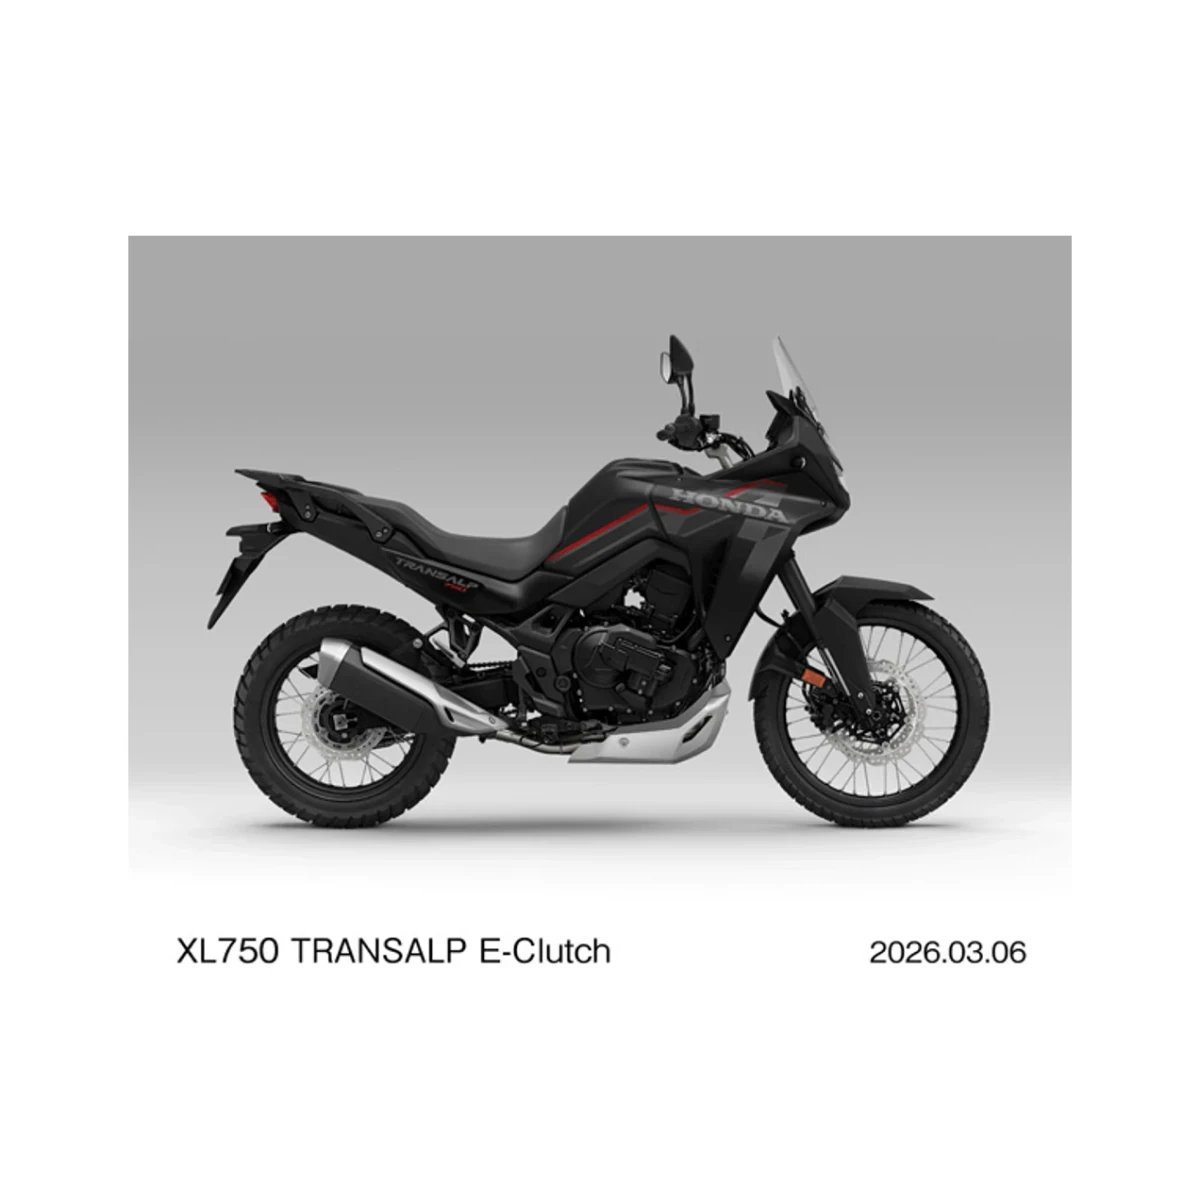
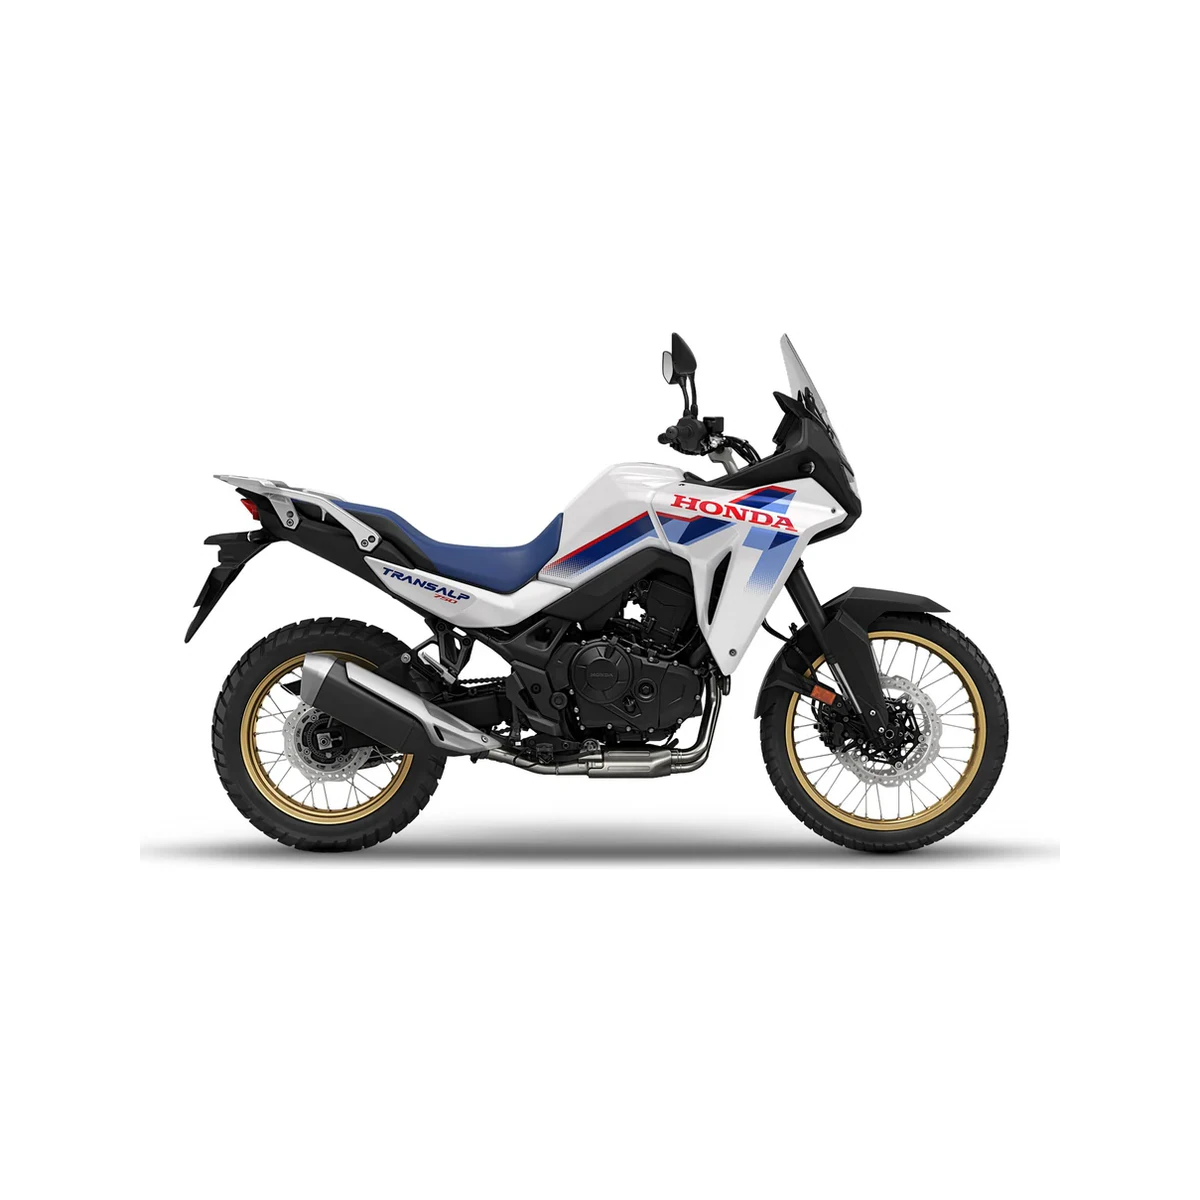
Replace flagged motorcycle images with white catalog assets (#260)
* Use clean white-background sources for flagged motorcycles

* Add one-time white media refresh script

* Run one-time white media refresh

* Use reachable CB650R studio source

* Fix CB650R refresh source URL

* Restore official Honda provenance for CB650R

* Harden white media refresh with local CB cleanup and source fallbacks

* Keep Africa Twin provenance tied to local Honda asset

* Clean Africa Twin local asset onto white canvas

* Refresh flagged motorcycle white-background assets [skip media-refresh]

* Use clean studio sources for CB650R and Africa Twin

* Refresh CB650R and Africa Twin from white studio sources

* Refresh flagged motorcycle white-background assets [skip media-refresh]

* Guard against flagged gray and lifestyle media regressions

* Remove one-time white media refresh workflow

* Remove one-time white media refresh helper

---------

diff --git a/lib/media.ts b/lib/media.ts
@@ -37,8 +37,8 @@ export const entityMedia: EntityMedia[] = [
   },
   {
     id: "honda-cb650r-honda-global", entityType: "motorcycle", entityId: "honda-cb650r", role: "primary",
-    src: "/media/motorcycles/honda-cb650r.webp", sourceImageUrl: "https://powersports.honda.com/motorcycle/standard/cb650r/2026/-/media/products/family/cb650r/trims/trim-main/cb650r-e-clutch/2026/2026-cb650r-e-clutch-matte_black_metallic-1505x923.png?imwidth=1600", alt: "Honda CB650R motorcycle in Matte Ballistic Black Metallic", width: 1200, height: 1200,
-    rightsStatus: "external-reference", rightsHolder: "American Honda Motor Co., Inc.", sourceLabel: "Official Honda Powersports product image · 2026 CB650R E-Clutch", sourceUrl: "https://powersports.honda.com/motorcycle/standard/cb650r/2026/cb650r-e-clutch", lastChecked: "2026-09-26"
+    src: "/media/motorcycles/honda-cb650r.webp", sourceImageUrl: "https://cdn.powergo.ca/media/catalog/2026/10/63fb5363ca884f88b02c012912cfaf3e_81c2a9c412fc4ca7892c0d472e3847cc_1000/2026-honda-cb650r-e-clutch-matte-black-metallic-2.webp", alt: "Honda CB650R motorcycle in Matte Ballistic Black Metallic", width: 1200, height: 1200,
+    rightsStatus: "external-reference", rightsHolder: "MotoMember / PowerGo", sourceLabel: "Dealer-hosted exact-model studio image · 2026 Honda CB650R E-Clutch", sourceUrl: "https://www.motomember.com/en/new/motorcycle/honda/cb650r-e-clutch/", lastChecked: "2026-09-27"
   },
   {
     id: "honda-nx500-e-clutch-bsh-2026", entityType: "motorcycle", entityId: "honda-nx500-e-clutch", role: "primary",
@@ -745,8 +745,8 @@ export const entityMedia: EntityMedia[] = [
   },
   {
     id:"motorstar-cafe-400-editorial", entityType:"motorcycle", entityId:"motorstar-cafe-400", role:"primary",
-    src:"/media/motorcycles/motorstar-cafe-400.webp", sourceImageUrl: "https://imgcdn.zigwheels.ph/large/gallery/exterior/78/1899/motorstar-cafe-400-right-side-viewfull-image-779807.jpg", alt:"MotorStar Cafe 400 motorcycle product image", width:1200, height:1200,
-    rightsStatus:"external-reference", rightsHolder: "Zigwheels Philippines", sourceLabel: "Catalog product image · MotorStar Cafe 400", sourceUrl: "https://www.zigwheels.ph/new-motorcycles/motorstar/cafe-400", lastChecked: "2026-09-24"
+    src:"/media/motorcycles/motorstar-cafe-400.webp", sourceImageUrl: "https://www.kamote.ph/cdn-cgi/image/lossless%3Dtrue%2Cw%3D1200%2Ch%3D1200%2Cf%3Dwebp%2Cfit%3Dcontain/https%3A/www.kamote.ph/Gallery/Motorstar/Cafe_400.webp", alt:"MotorStar Cafe 400 motorcycle product image", width:1200, height:1200,
+    rightsStatus:"external-reference", rightsHolder: "Kamote.ph", sourceLabel: "Philippine exact-model product image reference · MotorStar Cafe 400", sourceUrl: "https://www.kamote.ph/motorcycle/motorstar-cafe-400", lastChecked: "2026-09-27"
   },
   {
     id:"motorstar-xplorer-250r-editorial", entityType:"motorcycle", entityId:"motorstar-xplorer-250r", role:"primary",
@@ -960,13 +960,13 @@ export const entityMedia: EntityMedia[] = [
   },
   {
     id: "honda-crf1100l-africa-twin-honda-global", entityType: "motorcycle", entityId: "honda-crf1100l-africa-twin", role: "primary",
-    src: "/media/motorcycles/honda-crf1100l-africa-twin.webp", sourceImageUrl: "https://powersports.honda.com/motorcycle/adventure/-/media/products/family/africa-twin/trims/trim-main/africa-twin/2026/2026-africa-twin-matte_black_metallic-1505x923.png?imwidth=1600", alt: "Honda CRF1100L Africa Twin adventure motorcycle", width: 1200, height: 1200,
-    rightsStatus: "external-reference", rightsHolder: "American Honda Motor Co., Inc.", sourceLabel: "Official Honda Powersports product image · 2026 Africa Twin", sourceUrl: "https://powersports.honda.com/motorcycle/adventure/africa-twin", lastChecked: "2026-09-26"
+    src: "/media/motorcycles/honda-crf1100l-africa-twin.webp", sourceImageUrl: "https://www.bikesport.cl/cdn/shop/files/Africa_Adv.Sport_Tricolor_2.jpg?v=1732215732&width=1200", alt: "Honda CRF1100L Africa Twin adventure motorcycle", width: 1200, height: 1200,
+    rightsStatus: "external-reference", rightsHolder: "Bikesport Chile", sourceLabel: "Dealer-hosted exact-model studio image · Honda Africa Twin Adventure Sports", sourceUrl: "https://www.bikesport.cl/products/moto-honda-africa-twin-adventure-sport-automatica-2025", lastChecked: "2026-09-27"
   },
   {
     id: "honda-xl750-transalp-honda-global", entityType: "motorcycle", entityId: "honda-xl750-transalp", role: "primary",
-    src: "/media/motorcycles/honda-xl750-transalp.webp", sourceImageUrl: "https://powersports.honda.com/motorcycle/adventure/-/media/products/family/transalp/trims/trim-main/transalp-e-clutch/2026/2026-transalp-e-clutch-white-1505x923.png?imwidth=1600", alt: "Honda XL750 Transalp adventure motorcycle", width: 1200, height: 1200,
-    rightsStatus: "external-reference", rightsHolder: "American Honda Motor Co., Inc.", sourceLabel: "Official Honda Powersports product image · 2026 Transalp E-Clutch", sourceUrl: "https://powersports.honda.com/motorcycle/adventure/transalp", lastChecked: "2026-09-26"
+    src: "/media/motorcycles/honda-xl750-transalp.webp", sourceImageUrl: "https://mundohonda.cr/cdn/shop/files/2026-XL750_TRANSALP_studio_D002_MT_NH-196_Ross_White_RhSide_S.jpg?v=1779398821&width=940", alt: "Honda XL750 Transalp adventure motorcycle", width: 1200, height: 1200,
+    rightsStatus: "external-reference", rightsHolder: "Mundo Honda Costa Rica", sourceLabel: "Honda distributor studio image reference · 2026 XL750 Transalp", sourceUrl: "https://mundohonda.cr/products/translap", lastChecked: "2026-09-27"
   },
   {
     id: "yamaha-lexi-155-yamaha-official", entityType: "motorcycle", entityId: "yamaha-lexi-155", role: "primary",
